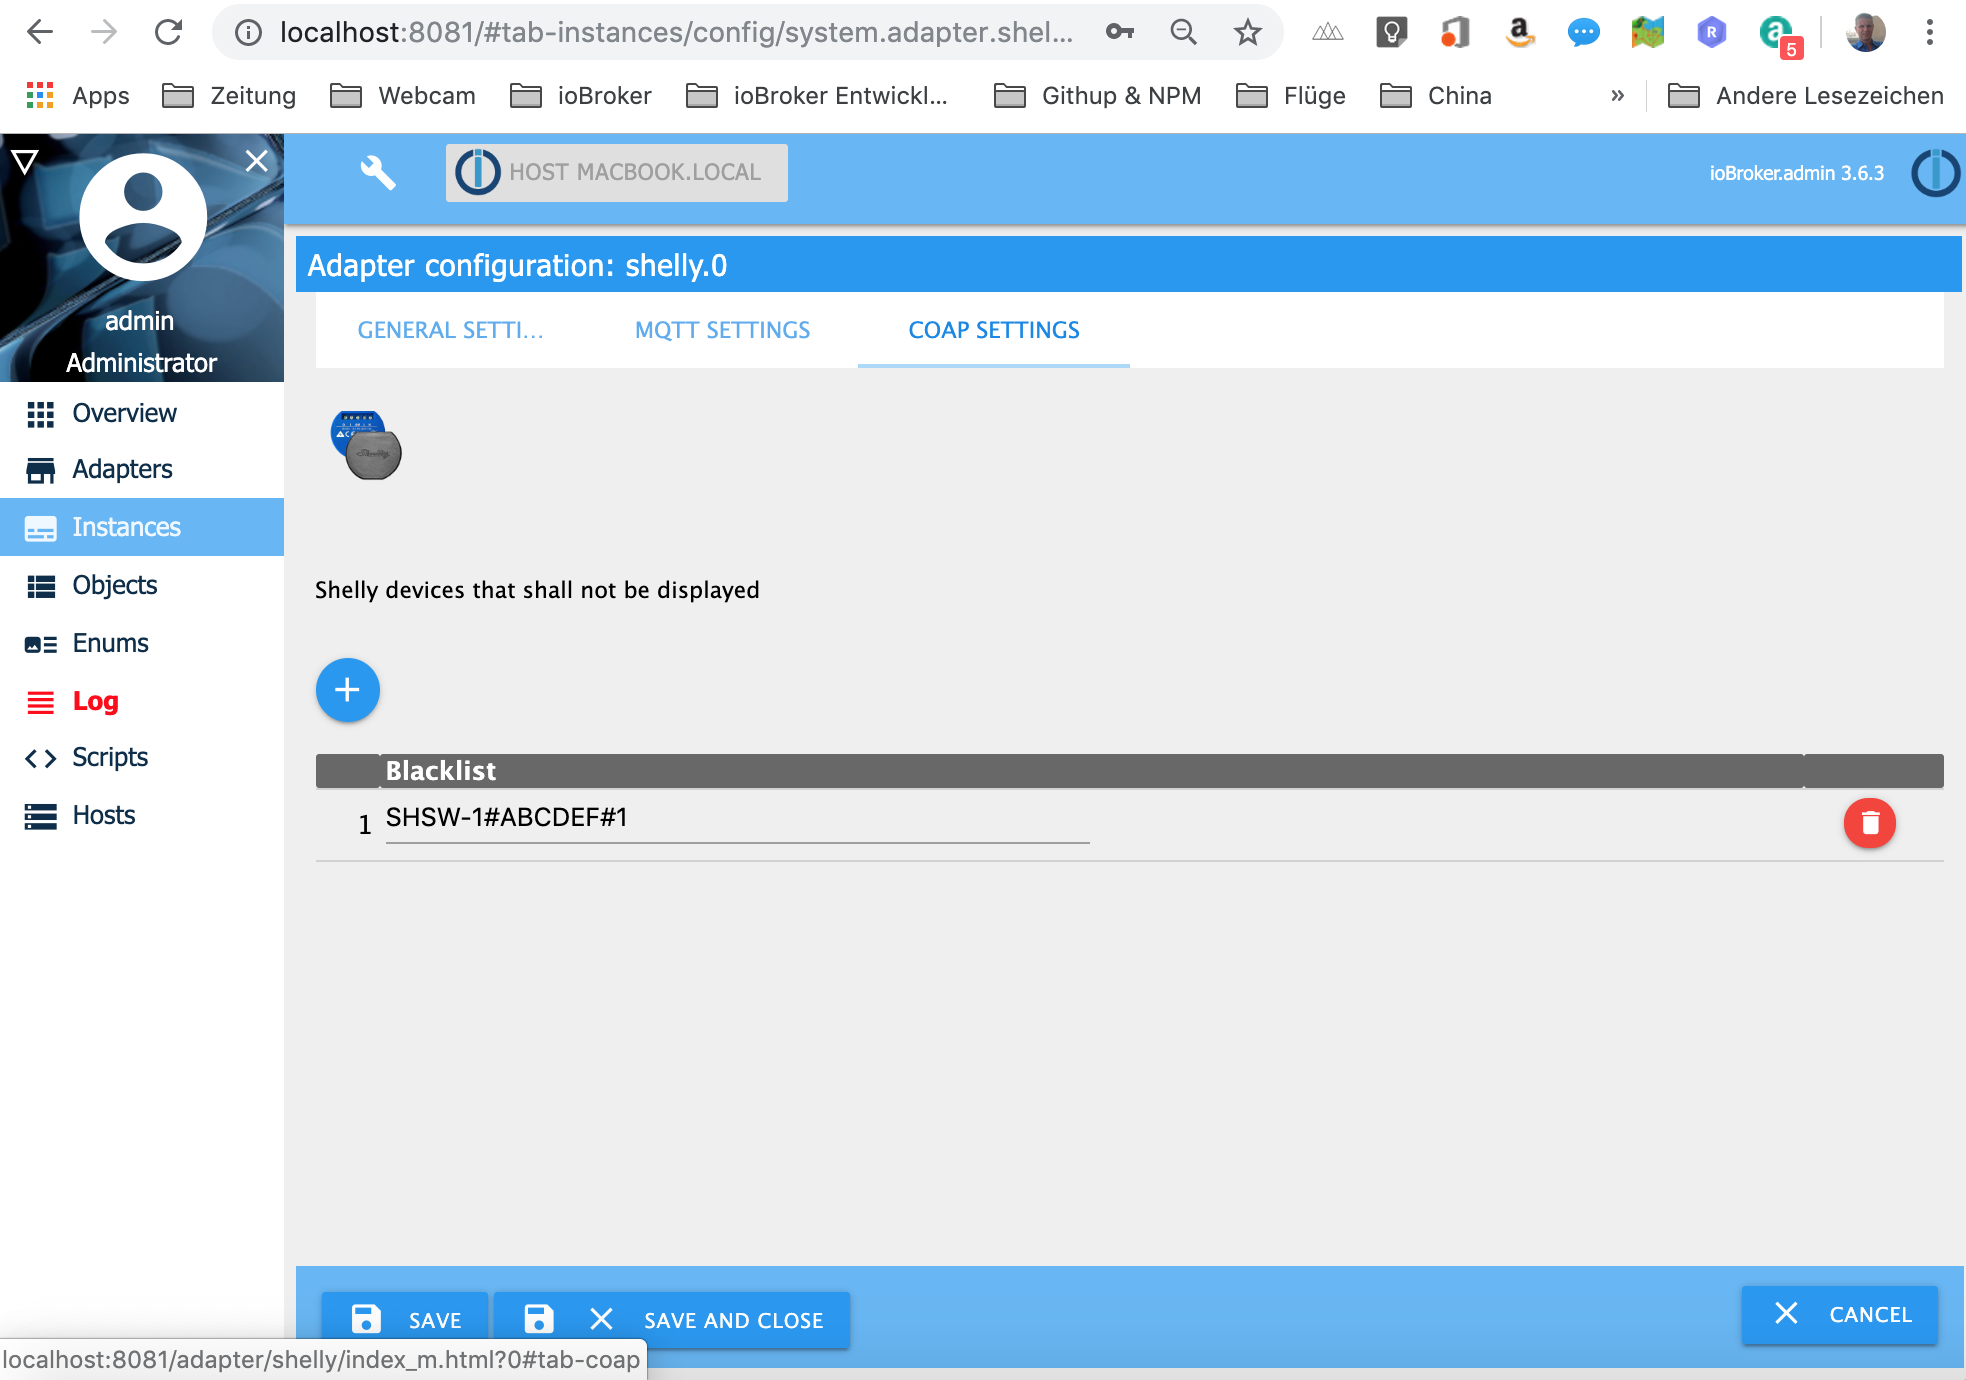
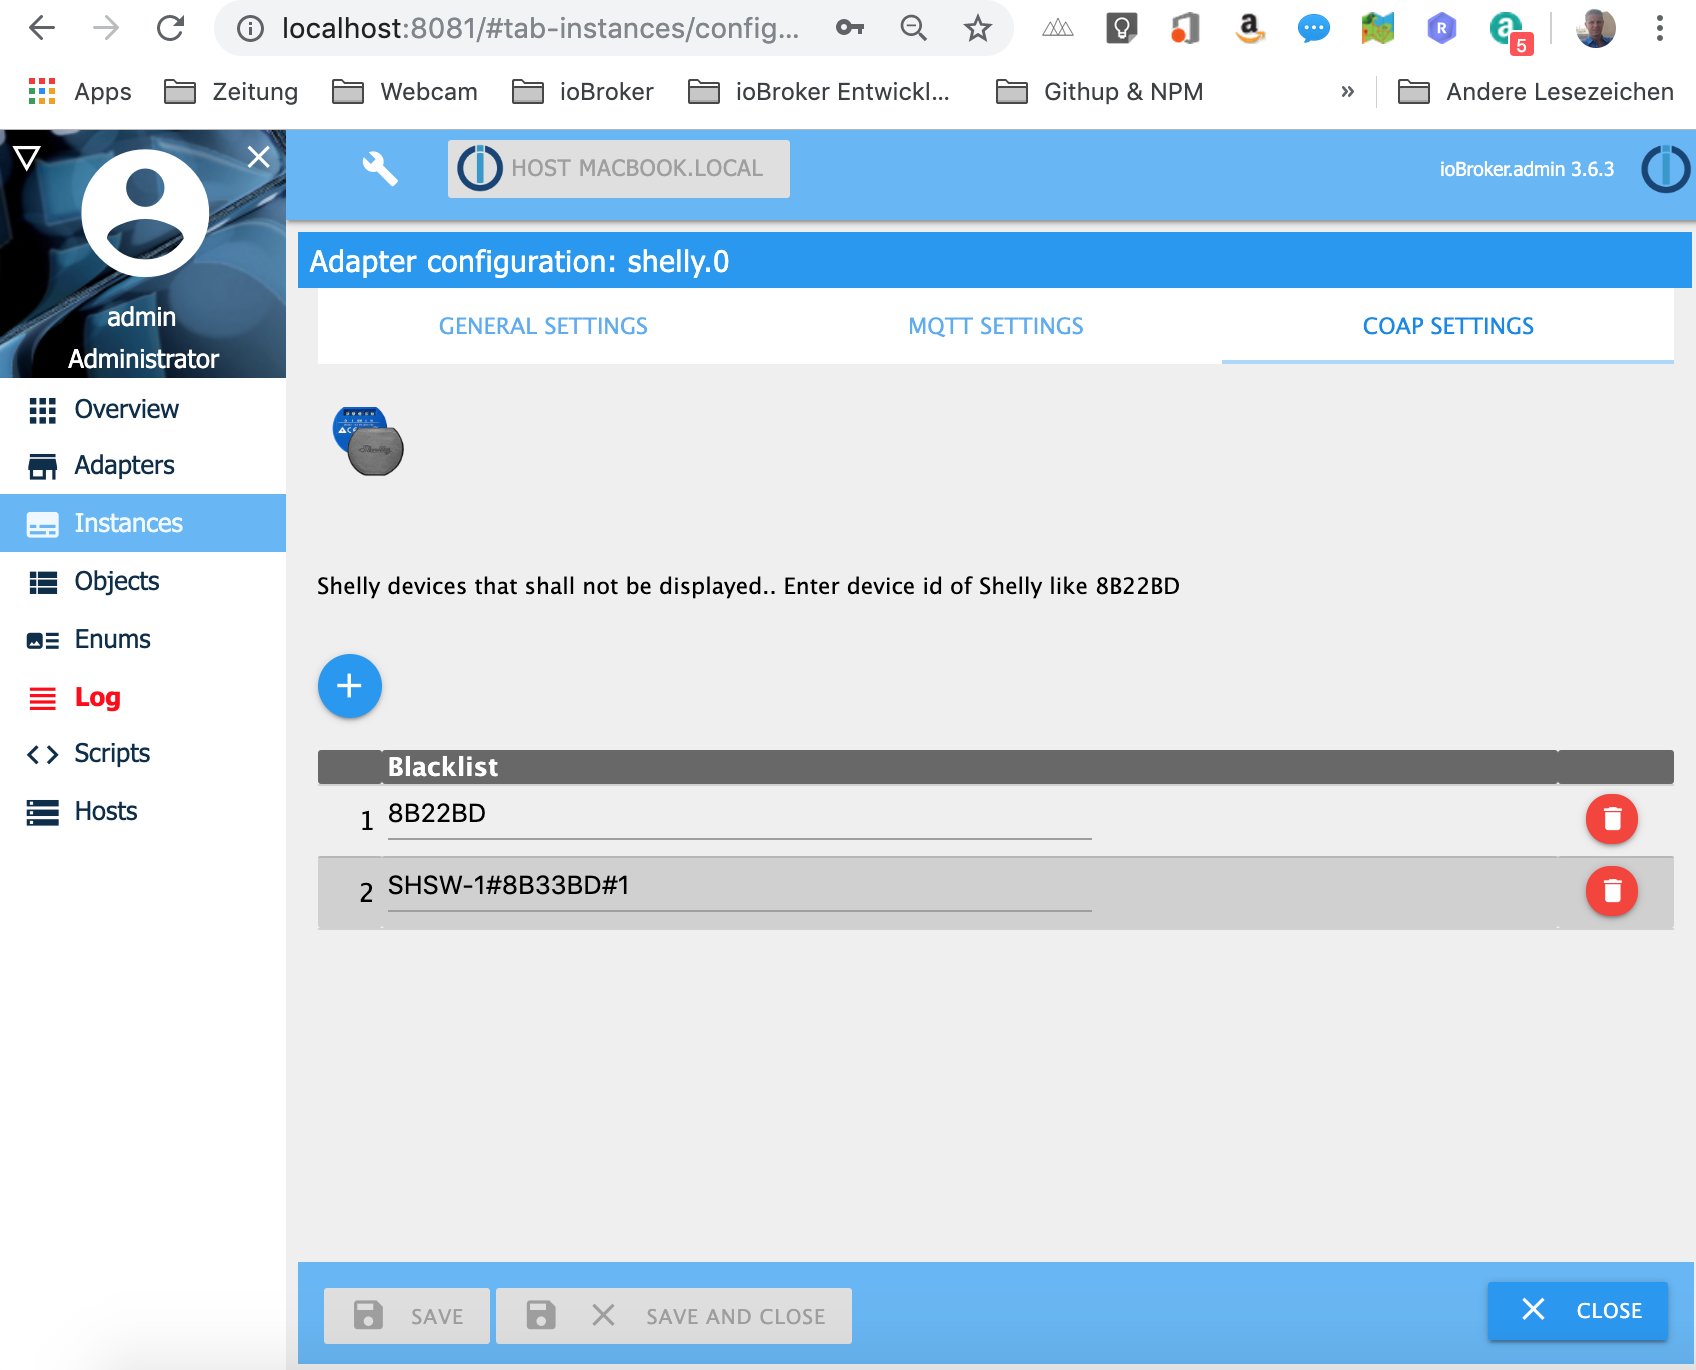
Bugfixing, Blacklist

diff --git a/admin/words.js b/admin/words.js
@@ -17,7 +17,8 @@ systemDictionary = {
     "Manual": {                                      "en": "Manual",                                          "de": "Manual",                                          "ru": "Вручную",                                         "pt": "Manual",                                          "nl": "Met de hand",                                     "fr": "Manuel",                                          "it": "Manuale",                                         "es": "Manual",                                          "pl": "Manual",                                          "zh-cn": "手册"},
     "Password": {                                    "en": "Password",                                        "de": "Passwort",                                        "ru": "пароль",                                          "pt": "Senha",                                           "nl": "Wachtwoord",                                      "fr": "Mot de passe",                                    "it": "Parola d'ordine",                                 "es": "Contraseña",                                      "pl": "Hasło",                                           "zh-cn": "密码"},
     "Password Enable": {                             "en": "Login with password",                             "de": "Einloggen mit Passwort",                          "ru": "Вход с паролем",                                  "pt": "Login com senha",                                 "nl": "Inloggen met wachtwoord",                         "fr": "Se connecter avec mot de passe",                  "it": "Accedi con password",                             "es": "Iniciar sesión con contraseña",                   "pl": "Zaloguj się za pomocą hasła",                     "zh-cn": "登录密码"},
-    "Shelly devices that shall not be displayed": {  "en": "Shelly devices that shall not be displayed",      "de": "Shelly-Geräte, die nicht angezeigt werden sollen", "ru": "Шелли устройства, которые не должны отображаться", "pt": "Dispositivos shelly que não devem ser exibidos",  "nl": "Shelly-apparaten die niet worden weergegeven",    "fr": "Appareils Shelly qui ne doivent pas être affichés", "it": "Dispositivi Shelly che non devono essere visualizzati", "es": "Dispositivos shelly que no se mostrarán",         "pl": "Urządzenia półkowe, które nie będą wyświetlane",  "zh-cn": "Shelly设备不得显示"},
+    "Shelly devices that shall not be displayed": {  "es": "Dispositivos shelly que no se mostrarán"},
+    "Shelly devices that shall not be displayed. Enter device id of Shelly like 8B22BD": {"en": "Shelly devices that shall not be displayed.. Enter device id of Shelly like 8B22BD", "de": "Shelly-Geräte, die nicht angezeigt werden sollen. Geben Sie die Geräte-ID von Shelly wie 8B22BD ein", "ru": "Устройства Шелли, которые не должны отображаться. Введите идентификатор устройства Шелли, например 8B22BD", "pt": "Dispositivos Shelly que não devem ser exibidos .. Digite o id do dispositivo de Shelly como 8B22BD", "nl": "Shelly-apparaten die niet worden weergegeven. Voer de apparaat-ID van Shelly in zoals 8B22BD", "fr": "Périphériques Shelly qui ne doivent pas être affichés .. Entrez l'identifiant de périphérique de Shelly comme 8B22BD", "it": "Dispositivi Shelly che non devono essere visualizzati. Immettere l'ID del dispositivo di Shelly come 8B22BD", "es": "Dispositivos de Shelly que no se mostrarán .. Ingrese el ID de dispositivo de Shelly como 8B22BD", "pl": "Urządzenia Shelly, które nie będą wyświetlane. Wpisz identyfikator urządzenia Shelly, taki jak 8B22BD", "zh-cn": "Shelly设备不显示..输入Shelly的设备ID，如8B22BD"},
     "Shelly protocol": {                             "en": "Shelly protocol",                                 "de": "Shelly-Protokoll",                                "ru": "Протокол Шелли",                                  "pt": "Protocolo Shelly",                                "nl": "Shelly-protocol",                                 "fr": "Protocole Shelly",                                "it": "Protocollo Shelly",                               "es": "Protocolo shelly",                                "pl": "Protokół Shelly",                                 "zh-cn": "雪莉协议"},
     "User": {                                        "en": "User",                                            "de": "Benutzer",                                        "ru": "пользователь",                                    "pt": "Do utilizador",                                   "nl": "Gebruiker",                                       "fr": "Utilisateur",                                     "it": "Utente",                                          "es": "Usuario",                                         "pl": "Użytkownik",                                      "zh-cn": "用户"},
     "on save adapter restarts with new config immediately": {"en": "on save adapter restarts with new config immediately", "de": "Beim Speichern von Einstellungen wird der Adapter sofort neu gestartet.", "ru": "При сохранении настроек адаптера он сразу же перезапускается", "pt": "no adaptador de salvar reinicia com nova configuração imediatamente", "nl": "on save-adapter wordt onmiddellijk opnieuw opgestart met nieuwe config", "fr": "sur l'adaptateur de sauvegarde redémarre avec la nouvelle config immédiatement", "it": "su save adapter si riavvia immediatamente con la nuova configurazione", "es": "en el adaptador de guardar se reinicia con nueva configuración de inmediato", "pl": "on save adapter restarts with new config immediately", "zh-cn": "在保存适配器重新启动与新的配置立即"},

diff --git a/lib/coap.js b/lib/coap.js
@@ -513,18 +513,27 @@ class CoAPServer {
     this.adapter = adapter;
     this.objectHelper = objectHelper;
     this.clients = {};
-    this.blacklist = this.blacklist();
+    this.blacklist = {};
   }
 
-  blacklist() {
-    let blackl = {};
-    if (this.adapter.config.keys) {
+  isBlackListed(deviceId) {
+    if (deviceId && this.blacklist[deviceId]) {
+      return true;
+    }
+    if (deviceId && this.adapter.config.keys) {
       for (let i in this.adapter.config.keys) {
         let key = this.adapter.config.keys[i];
-        if(key.blacklist)  blackl[key.blacklist] = true;
+        if (key.blacklist && deviceId) {
+          let reg = new RegExp(key.blacklist, 'gm');
+          let res = deviceId.match(reg);
+          if (res) {
+            this.blacklist[deviceId] = deviceId;
+            return true;
+          }
+        }
       }
     }
-    return blackl;
+    return false;
   }
 
   listen() {
@@ -544,14 +553,14 @@ class CoAPServer {
     shelly.on('update-device-status', (deviceId, status) => {
       this.adapter.log.debug('Status update received for ' + deviceId + ': ' + JSON.stringify(status));
       if (deviceId && typeof deviceId === 'string') {
-        if (!this.blacklist[deviceId]) {
-          if (!this.clients[deviceId]) {
-            shelly.getDeviceDescription(deviceId, (err, deviceId, description, ip) => {
-              if (!err && deviceId && ip) {
+        if (!this.clients[deviceId]) {
+          shelly.getDeviceDescription(deviceId, (err, deviceId, description, ip) => {
+            if (!err && deviceId && ip) {
+              if (!this.isBlackListed(deviceId) && !this.isBlackListed(ip)) {
                 this.clients[deviceId] = new CoAPClient(this.adapter, this.objectHelper, shelly, deviceId, ip, status);
-              }
-            });
-          }
+              } 
+            }
+          });
         } else {
         }
       } else {

diff --git a/admin/index_m.html b/admin/index_m.html
@@ -262,7 +262,7 @@
         </div>
         <div class="row">
           <div class="col s12">
-            <p class="translate">Shelly devices that shall not be displayed</p>
+            <p class="translate">Shelly devices that shall not be displayed. Enter device id of Shelly like 8B22BD</p>
           </div>
         </div>
         <div id="values">
